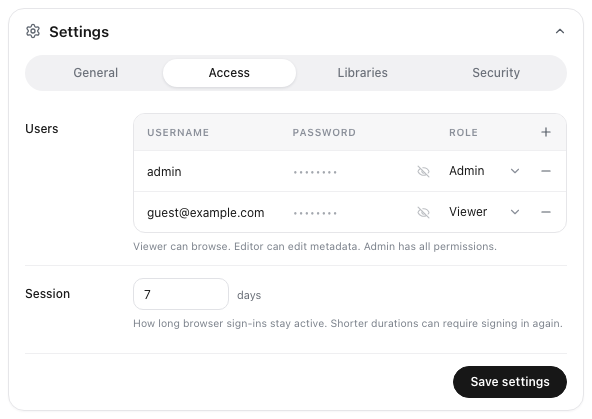
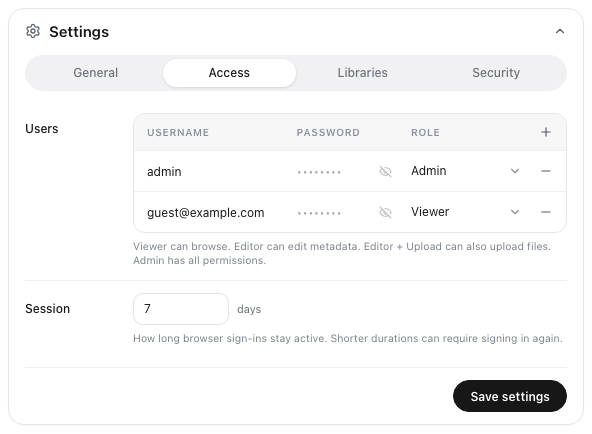
feat: update user roles and upload settings in documentation and UI for better clarity

diff --git a/plugin/components/SettingsForm.tsx b/plugin/components/SettingsForm.tsx
@@ -179,7 +179,7 @@ export function SettingsForm({
         <div id="accessSettingsPanel" role="tabpanel" aria-labelledby="accessSettingsTab" hidden={settingsTab !== "access"}>
           <SettingRow label="Users" help={authEnabled ? "Viewer can browse. Editor can edit metadata. Editor + Upload can also upload files. Admin has all permissions." : "Saved users apply when password protection is enabled."}>
             <div className="overflow-hidden rounded-xl border border-[#e6e6e9]" role="table" aria-label="Users">
-              <div className="grid grid-cols-[minmax(0,1fr)_minmax(0,0.85fr)_28px_124px_28px] items-center gap-1 border-b border-[#efeff1] bg-[#f7f7f8] px-1.5 py-1 text-[10px] font-semibold uppercase leading-none tracking-[0.06em] text-[#8a8f99]" role="row">
+              <div className="grid grid-cols-[minmax(0,1.3fr)_minmax(0,0.7fr)_28px_124px_28px] items-center gap-1 border-b border-[#efeff1] bg-[#f7f7f8] px-1.5 py-1 text-[10px] font-semibold uppercase leading-none tracking-[0.06em] text-[#8a8f99]" role="row">
                 {/* Headers share the rows' grid and start at the controls' text inset (6px padding + 1px border). */}
                 <span className="px-[7px]" role="columnheader">Username</span>
                 <span className="px-[7px]" role="columnheader">Password</span>
@@ -196,7 +196,7 @@ export function SettingsForm({
                 const canTogglePasswordVisible = !user.passwordHash;
                 const passwordVisible = canTogglePasswordVisible && passwordVisibleByIndex[String(index)];
                 return (
-                  <div key={index} className="grid min-h-10 grid-cols-[minmax(0,1fr)_minmax(0,0.85fr)_28px_124px_28px] items-center gap-1 border-b border-[#efeff1] py-1 pl-1.5 pr-1.5 last:border-b-0" role="row">
+                  <div key={index} className="grid min-h-10 grid-cols-[minmax(0,1.3fr)_minmax(0,0.7fr)_28px_124px_28px] items-center gap-1 border-b border-[#efeff1] py-1 pl-1.5 pr-1.5 last:border-b-0" role="row">
                     <div className="min-w-0" role="cell">
                       <input
                         className={tableInputClassName}

diff --git a/README.md b/README.md
@@ -35,7 +35,8 @@ Optional:
 - Password protection: require a username and password to access the viewer.
 - Public Network: allow access from other devices on the network.
 - HTTPS: use TLS when certificate paths are set.
-- Multiple users with Viewer, Editor, and Admin roles.
+- Multiple users with Viewer, Editor, Editor + Upload, and Admin roles.
+- Uploads: add files to the open library from the viewer, for Admin and Editor + Upload users.
 - Library protection: share only the Eagle libraries you select.
 
 <details>
@@ -111,6 +112,8 @@ Use this tab to choose which users can sign in to the viewer. To let other devic
   - Open every shared library, including libraries limited to selected users
 
 Uploads add files to the open library, up to 2 GB each by default, with an optional folder and tags. A copy stays in this computer's temp folder for at least an hour. It is removed at the next upload or server start after that.
+
+The panel has no setting for the upload limits. To change them, stop the server and edit `~/.eagle-media-preview-server/settings.json`: `uploadMaxSizeMB` is the size limit per file (default `2048`), and `uploadTimeoutMinutes` is the time allowed to receive one file (default `60`). Raise the timeout along with a larger size limit.
 
 The viewer can show **Success** before a file is really in the library. If Eagle already has the same file, it opens its **Duplicate File Alert** on this computer, and the file isn't added until someone chooses **Use existing file** or **Keep both** there.
 
